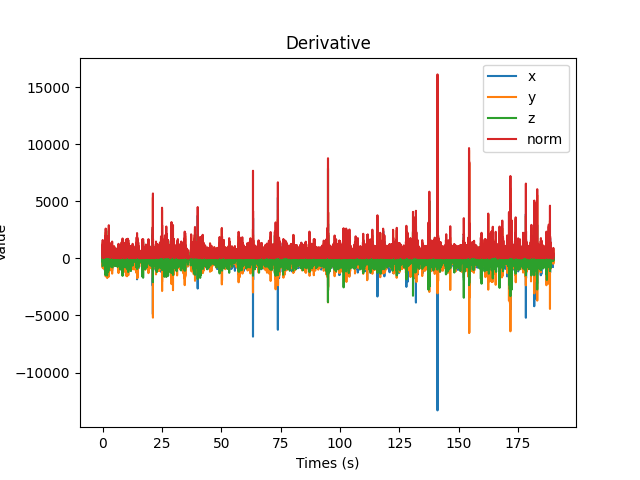
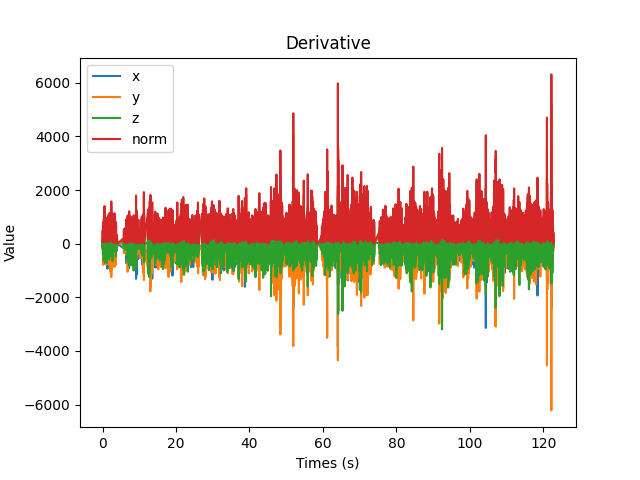
finally fixed checking with labelised datas

diff --git a/signalUtils.py b/signalUtils.py
@@ -2,25 +2,25 @@ import graphUtils as GRAPH
 import mathsUtils as MATH
 import matplotlib.pyplot as plt
 
-def all_calculations(downsampled_x_accel, downsampled_y_accel, downsampled_z_accel, downsampled_timestamp, sigma, threshold_multiplier, true_mvmt):
+def all_calculations(x_accel, y_accel, z_accel, timestamp, sigma, threshold_multiplier, true_mvmt, fs):
     # Normalise the acceleration data
 
     xaccel_derivative, xaccel_gaussian, abs_xaccel, start_xaccel, end_xaccel = MATH.simple_segmentation(
-            downsampled_timestamp, downsampled_x_accel, sigma, threshold_multiplier)
+            timestamp, x_accel, sigma, threshold_multiplier)
     yaccel_derivative, yaccel_gaussian, abs_yaccel, start_yaccel, end_yaccel = MATH.simple_segmentation(
-            downsampled_timestamp, downsampled_y_accel, sigma, threshold_multiplier)
+            timestamp, y_accel, sigma, threshold_multiplier)
     zaccel_derivative, zaccel_gaussian, abs_zaccel, start_zaccel, end_zaccel = MATH.simple_segmentation(
-            downsampled_timestamp, downsampled_z_accel, sigma, threshold_multiplier)
+            timestamp, z_accel, sigma, threshold_multiplier)
     
     norm_derivative = MATH.compute_norm(xaccel_derivative, yaccel_derivative, zaccel_derivative)
     norm_gaussian = MATH.compute_norm(xaccel_gaussian, yaccel_gaussian, zaccel_gaussian)
     threshold = threshold_multiplier * max(norm_gaussian)
 
+    new_timestamp = list(range(0, len(x_accel)))
     # Find the indices of movement segments
-    markers_begin, markers_end = MATH.find_bounds(downsampled_timestamp, norm_gaussian, threshold)
+    markers_begin, markers_end = MATH.find_bounds(timestamp, norm_gaussian, threshold)
 
-
-    GRAPH.plots_data(downsampled_timestamp, 
+    GRAPH.plots_data(timestamp, 
                     "Derivative",
                     False,
                     (xaccel_derivative, "x"), 
@@ -28,7 +28,7 @@ def all_calculations(downsampled_x_accel, downsampled_y_accel, downsampled_z_acc
                     (zaccel_derivative, "z"), 
                     (norm_derivative, "norm"))
 
-    GRAPH.plots_data(downsampled_timestamp,
+    GRAPH.plots_data(timestamp,
                     "Gaussian filtered",
                     False,
                     (xaccel_gaussian, "x"),
@@ -37,18 +37,19 @@ def all_calculations(downsampled_x_accel, downsampled_y_accel, downsampled_z_acc
                     (norm_gaussian, "norm"))
 
     plt.subplot(4,1,1)
-    GRAPH.plots_data(downsampled_timestamp, "X", True, (abs_xaccel, "abs"))
+    GRAPH.plots_data(timestamp, "X", True, (abs_xaccel, "abs"))
     plt.subplot(4,1,2)
-    GRAPH.plots_data(downsampled_timestamp, "Y", True, (abs_yaccel, "abs"))
+    GRAPH.plots_data(timestamp, "Y", True, (abs_yaccel, "abs"))
     plt.subplot(4,1,3)
-    GRAPH.plots_data(downsampled_timestamp, "Z", True, (abs_zaccel, "abs"))
+    GRAPH.plots_data(timestamp, "Z", True, (abs_zaccel, "abs"))
     plt.subplot(4,1,4)
-    GRAPH.plots_data(downsampled_timestamp, "Norm", False, (norm_gaussian, "abs"))
+    GRAPH.plots_data(timestamp, "Norm", False, (norm_gaussian, "abs"))
 
     
-    GRAPH.plots_rectangles([ (xaccel_gaussian, "x"), (yaccel_gaussian, "y"), (zaccel_gaussian, "z"), (norm_gaussian, "norm") ],
+    GRAPH.plots_rectangles(timestamp,
+                           [ (xaccel_gaussian, "x"), (yaccel_gaussian, "y"), (zaccel_gaussian, "z"), (norm_gaussian, "norm") ],
                             [start_xaccel, start_yaccel, start_zaccel, markers_begin],
-                            [end_xaccel, end_yaccel, end_zaccel, markers_end],
+                            [end_xaccel, end_yaccel, end_zaccel, markers_end], fs,
                             False)
     
     print(f"x rectangle amount : {len(start_xaccel)}")
@@ -56,9 +57,9 @@ def all_calculations(downsampled_x_accel, downsampled_y_accel, downsampled_z_acc
     print(f"z rectangle amount : {len(start_zaccel)}")
     print(f"norm rectangle amount : {len(markers_begin)}")
 
-    GRAPH.plot_checking(downsampled_timestamp, 
+    GRAPH.plot_checking(timestamp,
                         [ (xaccel_gaussian, "x"), (yaccel_gaussian, "y"), (zaccel_gaussian, "z"), (norm_gaussian, "norm") ],
                         [start_xaccel, start_yaccel, start_zaccel, markers_begin],
                         [end_xaccel, end_yaccel, end_zaccel, markers_end],
-                        true_mvmt)
+                        true_mvmt, fs)
     return start_xaccel, end_xaccel, start_yaccel, end_yaccel, start_zaccel, end_zaccel

diff --git a/graphUtils.py b/graphUtils.py
@@ -83,24 +83,26 @@ def plots_data(x:List[float], title:str, need_buffered:bool, *functions:List[Tup
         plt.savefig(f"./images_saved/results/{file_name}.png")
         plt.show()
 
-def plots_rectangles(y_signals: List[Tuple[List[float],str]], segment_start_indices: List[List[float]], segment_end_indices: List[List[float]], need_buffer: bool):
+def plots_rectangles(timestamp, y_signals: List[Tuple[List[float],str]], segment_start_indices: List[List[float]], segment_end_indices: List[List[float]], fs, need_buffer: bool):
     _, ax = plt.subplots()
     patches = []
     lines = []
 
     for i, (y_signal, start_indices, end_indices) in enumerate(zip(y_signals, segment_start_indices, segment_end_indices)):
-        line, = plt.plot(y_signal[0], label=y_signal[1])
+        line, = plt.plot(timestamp, y_signal[0], label=y_signal[1])
         lines.append(line)
         for start, end in zip(start_indices, end_indices):
-            if start > end:
-                start, end = end, start
-            norm_gaussian_part = y_signal[0][floor(start):ceil(end)]
+            start_sample = floor(start * fs)
+            end_sample = ceil(end * fs)
+            
+            norm_gaussian_part = y_signal[0][start_sample:end_sample]
             min_y = min(norm_gaussian_part)
             max_y = max(norm_gaussian_part)
             rect = Rectangle((start, min_y), end - start, max_y - min_y, fill=False, edgecolor=line.get_color(), linewidth=3)
             ax.add_patch(rect)
             patches.append(rect)
         
+    
         
     plt.legend()
     plt.title("Segmentation check")
@@ -110,31 +112,29 @@ def plots_rectangles(y_signals: List[Tuple[List[float],str]], segment_start_indi
         plt.show()
 
 
-def plot_checking(timestamp, y_signals, seg_start, seg_end, true_mvmt):
-    zeros = []
-    for i in range(0, len(true_mvmt)):
-        zeros.append(max(y_signals[0][0]))
-
+def plot_checking(timestamp, y_signals, seg_start, seg_end, true_mvmt, fs):
     _, axs = plt.subplots(len(y_signals))
-    for i in range(0, len(y_signals)):
-        axs[i].plot(timestamp, y_signals[i][0])
-        for j, (y_signal, start_indices, end_indices) in enumerate(zip(y_signals, seg_start, seg_end)):
-            for start, end in zip(start_indices, end_indices):
-                norm_gaussian_part = y_signal[0][floor(start):ceil(end)]
-                min_y = min(norm_gaussian_part)
-                max_y = max(norm_gaussian_part)
-                rect = Rectangle((start, min_y), end - start, max_y - min_y, fill=False, edgecolor="red", linewidth=3)
-                axs[i].add_patch(rect)
+    
+    for i, (y_signal, start_indices, end_indices) in enumerate(zip(y_signals, seg_start, seg_end)):
+        zeros = [max(y_signals[0][0])] * len(true_mvmt)
+        print(len(zeros), len(true_mvmt))
+        axs[i].plot(timestamp, y_signals[i][0], label=y_signals[i][1])
+        for start, end in zip(start_indices, end_indices):
+            start_sample = floor(start * fs)
+            end_sample = ceil(end * fs)
             
-        axs[i].stem(true_mvmt, zeros, linefmt="black", markerfmt='none', label="true", )
-        
-    
+            norm_gaussian_part = y_signal[0][start_sample:end_sample]
+            min_y = min(norm_gaussian_part)
+            max_y = max(norm_gaussian_part)
+            rect = Rectangle((start, min_y), end - start, max_y - min_y, fill=False, edgecolor="red", linewidth=3)
+            axs[i].add_patch(rect)
 
-    
-    plt.legend()
-    plt.title("Segmentation check with true data")
+        axs[i].stem(true_mvmt, zeros, linefmt="black", markerfmt='none', label="true")
+
+        axs[i].legend()
+
+    plt.suptitle("Segmentation check with true data")
     plt.savefig("./images_saved/results/Labelised.png")
-
     plt.show()
 
 

diff --git a/mathsUtils.py b/mathsUtils.py
@@ -1,5 +1,4 @@
 from scipy.ndimage import gaussian_filter1d
-import numpy as np
 from typing import List
 from math import sqrt, pow
 
@@ -17,23 +16,24 @@ def derivative(normalised_timestamp_acc, x_accel):
     return x_derivative
 
 
-def simple_segmentation(downsampled_timestamp, signal, sigma, threshold_multiplier):
+def simple_segmentation(timestamp, signal, sigma, threshold_multiplier):
     # Derivate the normalised data
-    signal_derivative = derivative(downsampled_timestamp, signal)
-    signal_derivative = derivative(downsampled_timestamp, signal_derivative)
+    signal_derivative = derivative(timestamp, signal)
+    signal_derivative = derivative(timestamp, signal_derivative)
 
     # Filtering with Gaussian filter the derivated data
     norm_gaussian = gaussian_filter1d(signal_derivative, sigma)
 
     # Compute the adaptive envelopp using moving average and standard deviation
-    abs_signal = np.abs(norm_gaussian)
+    abs_signal = abs(norm_gaussian)
 
     threshold = threshold_multiplier * max(abs_signal)
 
+    new_timestamp = list(range(0, len(signal)))
     # Find the indices of movement segments
-    markers_begin, markers_end = find_bounds(downsampled_timestamp, abs_signal, threshold)
-
+    markers_begin, markers_end = find_bounds(timestamp, abs_signal, threshold)
     return signal_derivative, norm_gaussian, abs_signal, markers_begin, markers_end
+
 
 def compute_norm(*signals: List[List[float]]):
     signal_amount = len(signals)
@@ -56,22 +56,22 @@ def find_bounds(x, signal, threshold):
     markers_end = []
     
     was_in_rect = False
-    for i in range(len(x)):
-        x_i = x[i]
-        y_i = signal[i]
-
-        in_rect = y_i > threshold
+    for i in range(0, len(signal)):
+        in_rect = signal[i] >= threshold
         
         if in_rect:
             if not was_in_rect:
                 was_in_rect = True
-                markers_begin.append(x_i)
+                markers_begin.append(x[i])
         else:
             if was_in_rect:
                 was_in_rect = False
-                markers_end.append(x_i)
+                markers_end.append(x[i])
     
     if was_in_rect:
-        markers_end.append(signal[-1])
+        markers_end.append(x[-1])
+        print("yes")
             
+    print(markers_begin, markers_end)
+    print(len(markers_begin))
     return markers_begin, markers_end

diff --git a/readingsUtils/csv_reading/csvUtils.py b/readingsUtils/csv_reading/csvUtils.py
@@ -28,38 +28,20 @@ def reading_into_csv(path):
             z_gyros.append(float(row[6]))
         
             line_count += 1
-    return normalised_timestamp, x_accel, y_accel, z_accel, x_gyros, y_gyros, z_gyros
 
-"""
-def labelise_date(path):
-    normalised_timestamp, x_accel, y_accel, z_accel, x_gyros, y_gyros, z_gyros = reading_into_csv(path)
-    false_value = max(x_accel)
-    count = 0
-    for i in range(0, len(normalised_timestamp)):
-        if normalised_timestamp[i] < 0:
-            normalised_timestamp[i] = normalised_timestamp[i - 1] + 0.1
-            count += 1
-        if (x_accel[i] == 0 and y_accel[i] == 0 and z_accel[i] == 0) or (x_accel[i] == -1 and y_accel[i] == -1 and z_accel[i] == -1):
-            x_accel[i] = false_value
-            y_accel[i] = false_value
-            z_accel[i] = false_value
-            x_gyros[i] = false_value
-            y_gyros[i] = false_value
-            z_gyros[i] = false_value
-    print(count/2)
-    return normalised_timestamp, x_accel, y_accel, z_accel, x_gyros, y_gyros, z_gyros
-    """
+        diff_timestamps = normalised_timestamp[1] - normalised_timestamp[0]
+        fs = 1 / diff_timestamps
+    return normalised_timestamp, x_accel, y_accel, z_accel, x_gyros, y_gyros, z_gyros, fs
 
 def labelise_data(path):
-    normalised_timestamp, x_accel, y_accel, z_accel, x_gyros, y_gyros, z_gyros = reading_into_csv(path)
+    normalised_timestamp, x_accel, y_accel, z_accel, x_gyros, y_gyros, z_gyros, fs = reading_into_csv(path)
     temp = []
 
     starting_timestamp = float(2 * normalised_timestamp[1] - normalised_timestamp[2])
     temp.append(0)
     for i in range(1, len(normalised_timestamp)):
         if normalised_timestamp[i] == 0:
-            #print(normalised_timestamp[i + 2], normalised_timestamp[i - 1])
             temp.append(((normalised_timestamp[i + 1] + normalised_timestamp[i - 2]) / 2) - starting_timestamp)
-        print(temp)
 
+    temp.append(((normalised_timestamp[-1] + normalised_timestamp[-2]) / 2) - starting_timestamp)
     return temp

diff --git a/main.py b/main.py
@@ -6,9 +6,9 @@ import signalUtils as SIGNAL
 if __name__ == "__main__":
 
         #seq_to_read = "data/our_datas/non_gesture/Non-gesture_8_Lea.csv"
-        seq_to_read = "data/our_datas/gestures/processed/maud_1.csv"
-        seq_to_labelise = "data/our_datas/gestures/raw/maud_1.csv"
-        normalised_timestamp_acc, x_gyros, y_gyros, z_gyros, x_accel, y_accel, z_accel = CSV.reading_into_csv(
+        seq_to_read = "data/our_datas/gestures/processed/seq1.csv"
+        seq_to_labelise = "data/our_datas/gestures/raw/seq1.csv"
+        normalised_timestamp_acc, x_gyros, y_gyros, z_gyros, x_accel, y_accel, z_accel, fs = CSV.reading_into_csv(
                 seq_to_read)
 
         # PARAMETERS FOR THE REST OF THE CODE
@@ -21,9 +21,9 @@ if __name__ == "__main__":
         #seq3 : sigma = 11, threshold = 0.3
         #seq2 : sigma = 50, threshold = 0.21
         #seq1 : sigma = 50, threshold = 0.2
-        threshold_multiplier = 0.3 # if too low (<0.4), detection check shows ungesture instead of gesture, if too high, gesture are too much segmented
+        threshold_multiplier = 0.2 # if too low (<0.4), detection check shows ungesture instead of gesture, if too high, gesture are too much segmented
 
-        sigma = 13
+        sigma = 50
 
 
         # SEGMENTATION
@@ -31,7 +31,7 @@ if __name__ == "__main__":
 
         start_xaccel, end_xaccel, start_yaccel, end_yaccel, start_zaccel, end_zaccel = SIGNAL.all_calculations(
                 x_accel, y_accel, z_accel,
-                normalised_timestamp_acc, sigma, threshold_multiplier, true_mvmt)
+                normalised_timestamp_acc, sigma, threshold_multiplier, true_mvmt, 101.36034736268958794910257398123)
 
         """
         start_xgyros, end_xgyros, start_ygyros, end_ygyros, start_zgyros, end_zgyros = SIGNAL.all_calculations(
